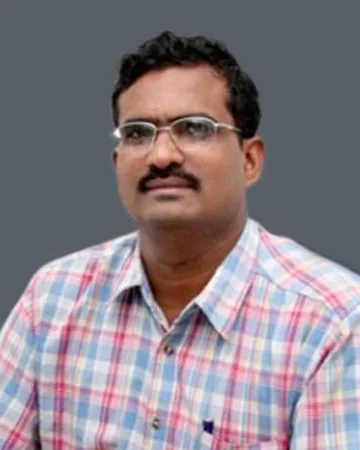
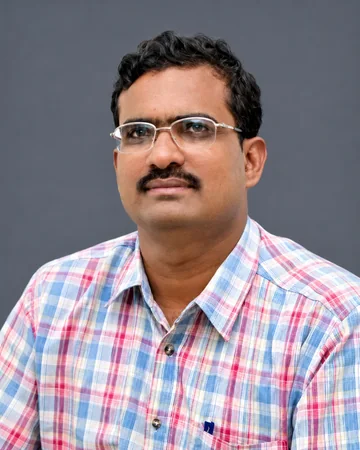
Refresh Krishna Reddy guest portrait

Changed region(s): [[0.0, 0.0933, 1.0, 1.0], [0.9472, 0.5911, 1.0, 0.6222], [0.6722, 0.1556, 0.7028, 0.1867]]

diff --git a/src/data/guests/image-sources.ts b/src/data/guests/image-sources.ts
@@ -63,8 +63,8 @@ export const guestImages: Record<string, GuestImage> = Object.fromEntries(([
   supplied('k-jaya-sankar', 'image15.png', 196, 245, { lowRes: true }),
   supplied('jyoti-singhai', 'image9.png', 409, 511),
   {
-    guest: 'krishna-reddy-p', status: 'organiser-supplied', source: 'Photograph supplied directly by the ICCMM-26 organisers (Stage 8)', sourceUrl: null,
-    license: LICENSE, attribution: null, verification: 'Supplied by the organisers as the portrait of Prof. P. Krishna Reddy.', w: 520, h: 650, focus: '50% 35%',
+    guest: 'krishna-reddy-p', status: 'organiser-supplied', source: 'HD photograph supplied directly by the ICCMM-26 organisers (Nov 2026; replaces the Stage 8 photo)', sourceUrl: null,
+    license: LICENSE, attribution: null, verification: 'Supplied by the organisers as the portrait of Prof. P. Krishna Reddy.', w: 720, h: 900, focus: '50% 30%',
   },
 ] as GuestImage[]).map((i) => [i.guest, i]));
 

diff --git a/docs/guest-image-sources.md b/docs/guest-image-sources.md
@@ -25,7 +25,7 @@ All published portraits are taken from **Guest Info.docx**, supplied by the ICCM
 | Dr. Y. Vijayalatha Reddy | image5.png | none | Organiser-supplied; guest consent to confirm | none stated | Row match | 400×500 |
 | Dr. K. Jaya Sankar | image15.png | none | Organiser-supplied; guest consent to confirm | none stated | Row match | 196×245 **low-res** |
 | Dr. Jyoti Singhai | image9.png | none | Organiser-supplied; guest consent to confirm | none stated | Row match | 409×511 |
-| Prof. Krishna Reddy P. | photo supplied directly by the organisers (Stage 8) | none | Organiser-supplied; guest consent to confirm | none stated | Supplied as his portrait | 650×650 source, cropped to 520×650 |
+| Prof. Krishna Reddy P. | photo supplied directly by the organisers (Stage 8) | none | Organiser-supplied; guest consent to confirm | none stated | Supplied as his portrait | HD source 1122×1402 (Nov 2026), cropped to 720×900 |
 
 Not published (marked NO, or unverified): Joginder Tanikella (image7), Sreenivas Jasti (image6), Bala Prasad Peddigari (image2) and "Dr. Merugu Laxmi" (image21). None of these files were copied into the project.
 
